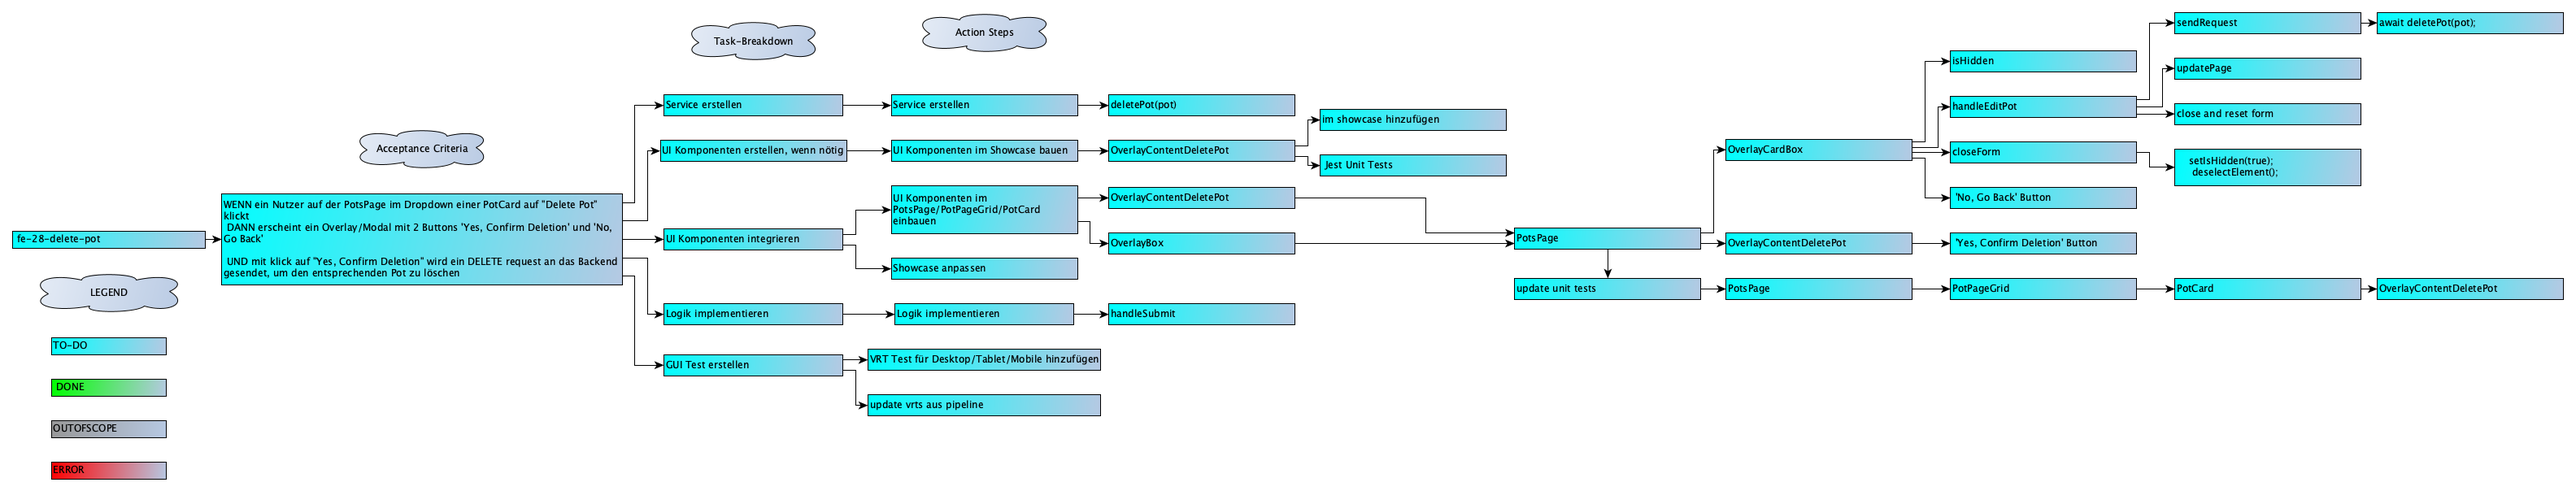
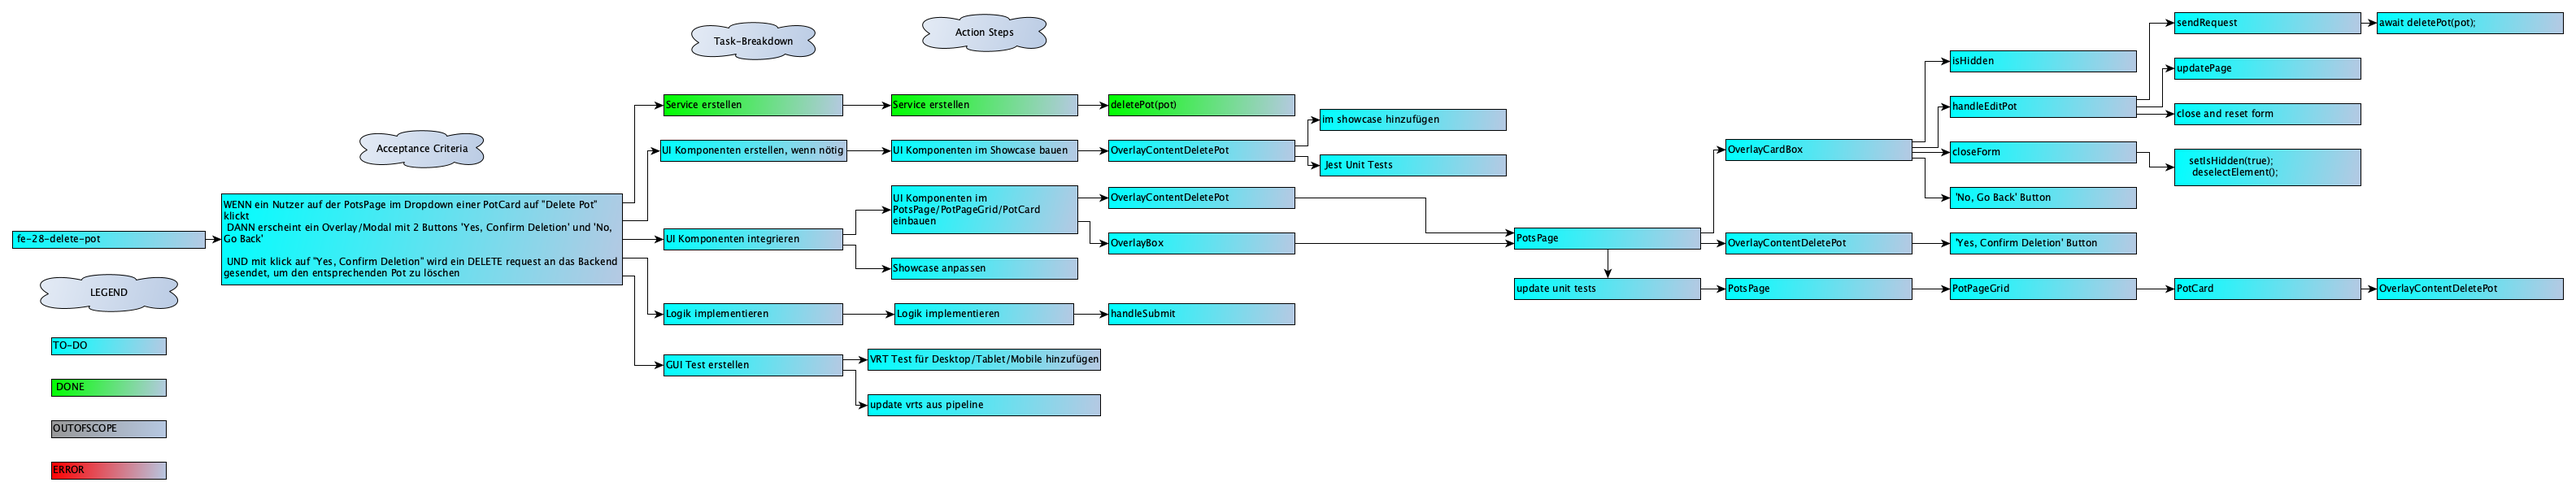
fe-28 add service deletePot

Changed region(s): [[0.25, 0.1788, 0.5, 0.2384]]

diff --git a/frontend/src/globals/services/PotService.spec.ts b/frontend/src/globals/services/PotService.spec.ts
@@ -1,6 +1,6 @@
 import { ColorNameEnum } from '../../model/enum/ColorNameEnum';
 import { EPPot } from '../../model/entrypoints/EPPot';
-import { addNewPot, editPot, getPots } from './PotService';
+import { addNewPot, deletePot, editPot, getPots } from './PotService';
 import axios from 'axios';
 import { mockedPotsDTO } from '../../fixtures/MockedPotsDTO';
 import { mockedPots2 } from '../../fixtures/MockedPots';
@@ -42,6 +42,7 @@ describe('PotService', (): void => {
   beforeEach((): void => {
     (axios.get as jest.Mock).mockResolvedValue({ data: mockedPotsDTO });
     (axios.post as jest.Mock).mockResolvedValue(undefined);
+    (axios.delete as jest.Mock).mockResolvedValue(undefined);
   });
 
   it('maps array APIPotDTO to array EPPot correctly', async (): Promise<void> => {
@@ -101,6 +102,28 @@ describe('PotService', (): void => {
 
     expect(consoleErrorSpy).toHaveBeenCalledWith(
       expect.stringContaining('Unable to edit Pot: Error: Service Unavailable; Service Unavailable')
+    );
+  });
+
+  it('sends a DELETE request to delete a Pot and resolves successfully', async (): Promise<void> => {
+    await deletePot(firstEPPot);
+
+    expect(axios.delete).toHaveBeenCalledWith(
+      'https://backend.philippkraatz.com/api/pots/deletePot',
+      { headers: { 'Content-Type': 'application/json' }, data: { potName: firstEPPot.name } }
+    );
+  });
+
+  it('returns error if deleting a pot fails', async () => {
+    const consoleErrorSpy: jest.SpyInstance = jest.spyOn(console, 'error').mockImplementation();
+    (axios.delete as jest.Mock).mockRejectedValue(new Error('Service Unavailable'));
+
+    await deletePot(firstEPPot);
+
+    expect(consoleErrorSpy).toHaveBeenCalledWith(
+      expect.stringContaining(
+        'Unable to delete Pot: Error: Service Unavailable; Service Unavailable'
+      )
     );
   });
 });

diff --git a/frontend/src/globals/services/PotService.ts b/frontend/src/globals/services/PotService.ts
@@ -8,6 +8,7 @@ import { fromColorNameToCode } from '../utils/FromColorNameToCode';
 import getErrorMessage from '../utils/getErrorMessage';
 import { EPEditedPot } from '../../model/entrypoints/EPEditedPot';
 import { APIEditedPotDTO } from '../../model/api/APIEditedPotDTO';
+import { APIPotNameDTO } from '../../model/api/APIPotNameDTO';
 
 export async function getPots(): Promise<EPPot[]> {
   const apiUrl = `${AppConfig.API_BACKEND_HOST}/pots`;
@@ -68,6 +69,21 @@ export async function editPot(editedPot: EPEditedPot): Promise<void> {
     });
   } catch (error) {
     console.error(`Unable to edit Pot: ${error}; ${getErrorMessage(error)}`);
+  }
+}
+export async function deletePot(pot: EPPot): Promise<void> {
+  const apiUrl: string = `${AppConfig.API_BACKEND_HOST}/pots/deletePot`;
+
+  try {
+    const potNameDTO: APIPotNameDTO = { potName: pot.name };
+    await axios.delete<string>(apiUrl, {
+      headers: {
+        'Content-Type': 'application/json',
+      },
+      data: potNameDTO,
+    });
+  } catch (error) {
+    console.error(`Unable to delete Pot: ${error}; ${getErrorMessage(error)}`);
   }
 }
 
